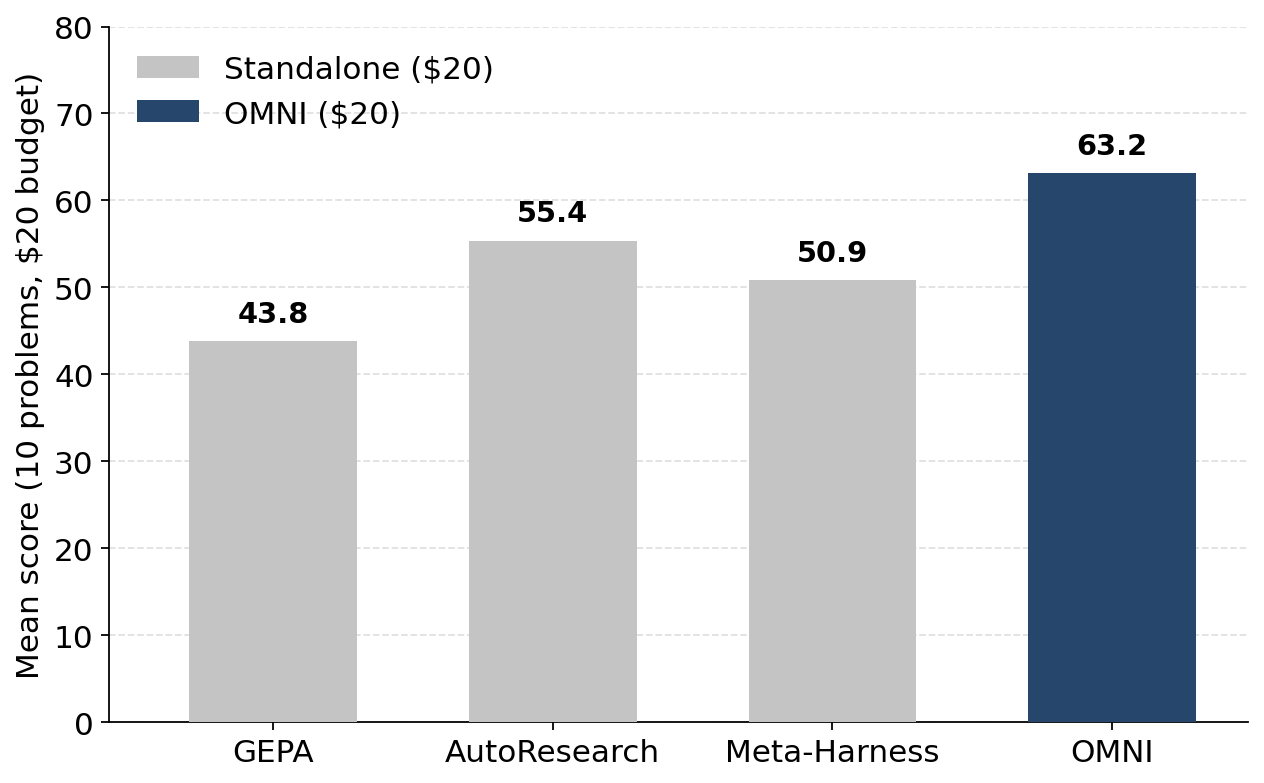
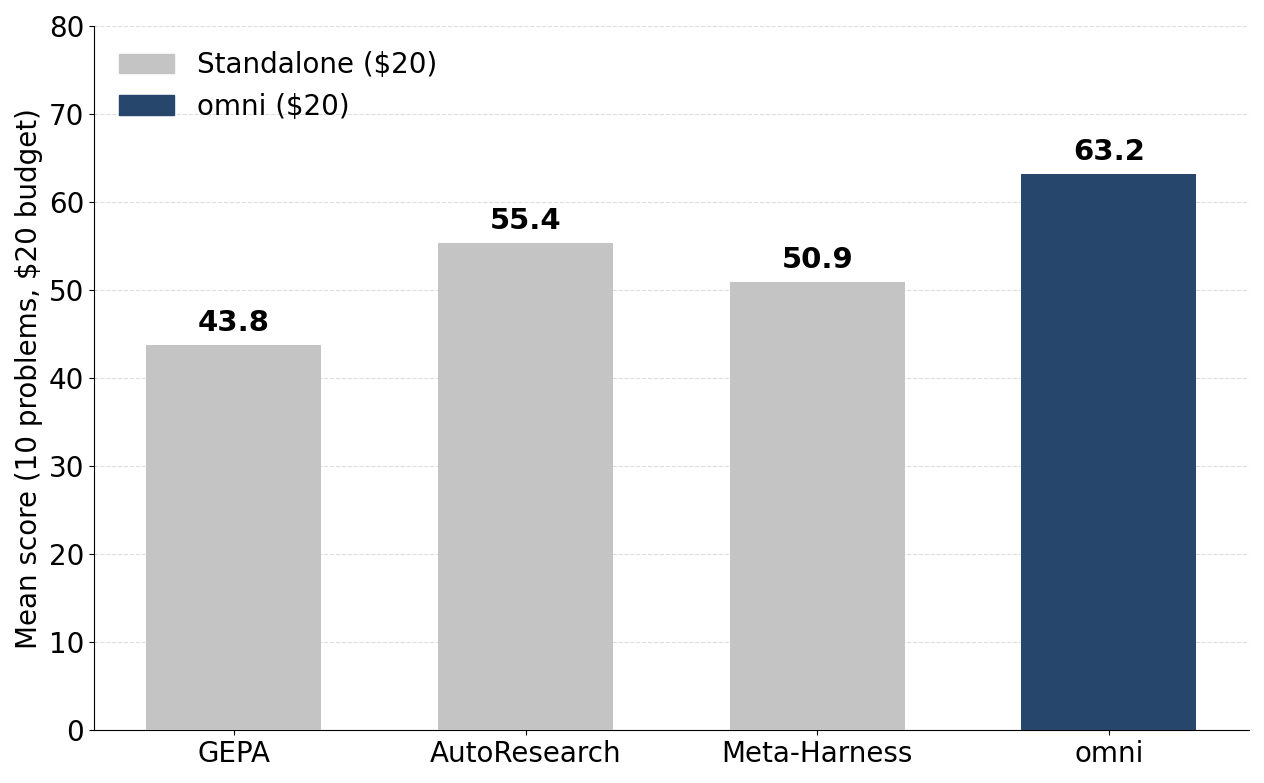
docs(blog): align omni post with current feat/optimize-anything-omni API
Terminology-only update; all results and figures unchanged:

- Task(initial_candidate=) -> Task(seed_candidate=), including the
  dataclasses.replace() reseed in the OMNI phase-2 example.
- optimize_anything(task, evaluate, config) -> optimize_anything_from_task
  in the Task-based examples; note the flat
  optimize_anything(seed_candidate, evaluator=..., ...) form in prose.
- Getting-started snippet uses the flat primary entry point.
- Correct the budget paragraph: plain composition helpers pre-partition
  the budget per stage; the *_with_server variants share one eval server
  and hard budget.

Changed region(s): [[0.0, 0.0613, 0.9873, 0.9808], [0.8331, 0.1533, 0.9256, 0.2146], [0.0309, 0.0, 0.0926, 0.0613]]

diff --git a/docs/scripts/blog_omni_figures.py b/docs/scripts/blog_omni_figures.py
@@ -1,0 +1,160 @@
+"""Regenerate the omni blog-post figures that carry the pipeline name.
+
+Produces (into the 2026-05-28-optimize-anything-omni post's images/ dir):
+
+- ``omni_bar.png`` — headline bar chart: standalone engines vs the composed
+  omni pipeline on Frontier-CS.
+- ``omni_design.png`` — the two-phase pipeline diagram (also the post's
+  social-preview image).
+
+The other two figures in the post (``optimizer_variance.png``,
+``unstuck_frontier_cs.png``) carry no pipeline-name text and are untouched.
+
+Usage:
+    uv run --with matplotlib python docs/scripts/blog_omni_figures.py
+"""
+
+from pathlib import Path
+
+import matplotlib.pyplot as plt
+from matplotlib.patches import FancyArrowPatch, FancyBboxPatch, Patch
+
+IMAGES = (
+    Path(__file__).resolve().parents[1]
+    / "docs"
+    / "blog"
+    / "posts"
+    / "2026-05-28-optimize-anything-omni"
+    / "images"
+)
+
+PIPELINE = "omni"
+
+NAVY_BAR = "#26466b"
+GRAY_BAR = "#c4c4c4"
+NAVY_LINE = "#152d70"
+GOLD = "#b87d2a"
+FILL_LIGHT = "#f8faff"
+FILL_DARK = "#eaf1fe"
+
+
+def make_bar() -> None:
+    """Headline bar: GEPA / AutoResearch / Meta-Harness standalone vs omni."""
+    labels = ["GEPA", "AutoResearch", "Meta-Harness", PIPELINE]
+    scores = [43.8, 55.4, 50.9, 63.2]
+    colors = [GRAY_BAR, GRAY_BAR, GRAY_BAR, NAVY_BAR]
+
+    fig, ax = plt.subplots(figsize=(12.64, 7.83), dpi=100)
+    bars = ax.bar(labels, scores, width=0.6, color=colors, zorder=3)
+
+    for bar, score in zip(bars, scores, strict=True):
+        ax.annotate(
+            f"{score}",
+            (bar.get_x() + bar.get_width() / 2, score),
+            xytext=(0, 10),
+            textcoords="offset points",
+            ha="center",
+            fontsize=21,
+            fontweight="bold",
+        )
+
+    ax.set_ylabel("Mean score (10 problems, $20 budget)", fontsize=20)
+    ax.set_ylim(0, 80)
+    ax.set_yticks(range(0, 81, 10))
+    ax.tick_params(axis="both", labelsize=20)
+    ax.grid(axis="y", linestyle="--", color="#dddddd", zorder=0)
+    ax.spines[["top", "right"]].set_visible(False)
+
+    ax.legend(
+        handles=[
+            Patch(color=GRAY_BAR, label="Standalone ($20)"),
+            Patch(color=NAVY_BAR, label=f"{PIPELINE} ($20)"),
+        ],
+        loc="upper left",
+        fontsize=20,
+        frameon=False,
+    )
+
+    fig.tight_layout()
+    fig.savefig(IMAGES / "omni_bar.png")
+    plt.close(fig)
+
+
+def _box(ax, cx: float, cy: float, w: float, h: float, title: str, money: str, fill: str) -> None:
+    ax.add_patch(
+        FancyBboxPatch(
+            (cx - w / 2, cy - h / 2),
+            w,
+            h,
+            boxstyle="round,pad=0,rounding_size=24",
+            facecolor=fill,
+            edgecolor=NAVY_LINE,
+            linewidth=4.2,
+            zorder=3,
+        )
+    )
+    if money:
+        # y-axis is inverted (y down): smaller y = visually higher.
+        ax.text(
+            cx, cy - 36, title, ha="center", va="center", fontsize=30, fontweight="bold", color="#111111", zorder=4
+        )
+        ax.text(cx, cy + 34, money, ha="center", va="center", fontsize=26, fontweight="bold", color=GOLD, zorder=4)
+    else:
+        ax.text(cx, cy, title, ha="center", va="center", fontsize=30, fontweight="bold", color="#111111", zorder=4)
+
+
+def _arrow(ax, start: tuple[float, float], end: tuple[float, float], rad: float) -> None:
+    ax.add_patch(
+        FancyArrowPatch(
+            start,
+            end,
+            connectionstyle=f"arc3,rad={rad}",
+            arrowstyle="-|>",
+            mutation_scale=100,
+            linewidth=5.5,
+            color=NAVY_LINE,
+            zorder=2,
+            shrinkA=0,
+            shrinkB=4,
+        )
+    )
+
+
+def make_design() -> None:
+    """Two-phase pipeline diagram: parallel explore -> pick best -> fresh continuation."""
+    fig, ax = plt.subplots(figsize=(31.56, 9.32), dpi=100)
+    ax.set_xlim(0, 3156)
+    ax.set_ylim(932, 0)  # y down, matching image coordinates
+    ax.axis("off")
+
+    rows = [133, 461, 792]
+    engines = ["GEPA", "AutoResearch", "Meta-Harness"]
+
+    # Phase 1: engines in parallel.
+    for y, engine in zip(rows, engines, strict=True):
+        _box(ax, 292, y, 490, 158, engine, "$5", FILL_LIGHT)
+
+    # Pick best.
+    _box(ax, 1205, rows[1], 450, 182, "Pick Best", "", FILL_LIGHT)
+
+    # Phase 2: fresh continuation engines and the named variants.
+    for y, engine in zip(rows, engines, strict=True):
+        _box(ax, 1983, y, 490, 158, f"Fresh {engine}", "$5", FILL_LIGHT)
+        _box(ax, 2830, y, 580, 158, f"{PIPELINE}-{engine}", "$20", FILL_DARK)
+
+    # Converging arrows into Pick Best (heads fanned slightly so all three
+    # stay visible), diverging out to the fresh engines.
+    for y, rad, fan in zip(rows, (0.16, 0.0, -0.16), (-36, 0, 36), strict=True):
+        _arrow(ax, (537, y), (978, rows[1] + fan), rad)
+        _arrow(ax, (1432, rows[1]), (1736, y), -rad)
+        _arrow(ax, (2228, y), (2538, y), 0.0)
+
+    fig.subplots_adjust(left=0, right=1, top=1, bottom=0)
+    fig.savefig(IMAGES / "omni_design.png")
+    plt.close(fig)
+
+
+if __name__ == "__main__":
+    make_bar()
+    make_design()
+    print(f"wrote omni_bar.png and omni_design.png to {IMAGES}")

diff --git a/docs/docs/blog/posts/2026-05-28-optimize-anything-omni/index.md b/docs/docs/blog/posts/2026-05-28-optimize-anything-omni/index.md
@@ -6,7 +6,7 @@ authors:
 slug: optimize-anything-omni
 readtime: 10
 title: "optimize_anything Goes Omni: Pluggable Engines and Composable Optimizer Pipelines"
-description: "optimize_anything now dispatches a single optimization call to any engine — GEPA, an autonomous coding agent, or an agent-based optimizer — and lets you compose them into multi-stage pipelines. On Frontier-CS, the composed OMNI pipeline beats every standalone optimizer under a matched budget."
+description: "optimize_anything now dispatches a single optimization call to any engine — GEPA, an autonomous coding agent, or an agent-based optimizer — and lets you compose them into multi-stage pipelines. On Frontier-CS, the composed omni pipeline beats every standalone optimizer under a matched budget."
 social_image: blog/2026-05-28-optimize-anything-omni/images/omni_design.png
 citation_authors:
   - "Donghyun Lee"
@@ -30,11 +30,11 @@ citation_keywords: "text optimization, LLM-driven optimization, prompt optimizat
 # <span class="gradient-code">optimize_anything</span> Goes Omni: Pluggable Engines and Composable Optimizer Pipelines
 
 !!! tip ""
-    **TL;DR.** `optimize_anything` is now **engine-pluggable** and **pipeline-composable**: one argument (`engine=`) dispatches the same optimization call to GEPA, an autonomous coding agent (e.g., [AutoResearch](https://github.com/karpathy/autoresearch)), or an agent-based optimizer (e.g., [Meta-Harness](https://arxiv.org/abs/[phone redacted])), and the engines compose into multi-stage pipelines. Using **[Terrarium](https://github.com/gepa-ai/terrarium)**, our new evaluation framework that pins every optimizer to the same task, budget, and evaluation server, we find that **no single optimizer dominates** on [Frontier-CS](https://arxiv.org/abs/[phone redacted]) — but the composed **`OMNI`** pipeline beats every standalone optimizer under a matched \$20 budget.
+    **TL;DR.** `optimize_anything` is now **engine-pluggable** and **pipeline-composable**: one argument (`engine=`) dispatches the same optimization call to GEPA, an autonomous coding agent (e.g., [AutoResearch](https://github.com/karpathy/autoresearch)), or an agent-based optimizer (e.g., [Meta-Harness](https://arxiv.org/abs/[phone redacted])), and the engines compose into multi-stage pipelines. Using **[Terrarium](https://github.com/gepa-ai/terrarium)**, our new evaluation framework that pins every optimizer to the same task, budget, and evaluation server, we find that **no single optimizer dominates** on [Frontier-CS](https://arxiv.org/abs/[phone redacted]) — but the composed **`omni`** pipeline beats every standalone optimizer under a matched \$20 budget.
 
 <figure markdown="span">
-  ![Bar chart, mean score on Frontier-CS (10 problems, \$20 budget each): GEPA 43.8, AutoResearch 55.4, Meta-Harness 50.9 (gray), and OMNI 63.2 (dark blue). The OMNI bar tops every standalone optimizer.](images/omni_bar.png){ style="width: 70%;" }
-  <figcaption>On Frontier-CS (10 problems, matched $20 budget, Claude Sonnet 4.6), the composed <span class="gradient-code">OMNI</span> pipeline (63.2) beats every standalone optimizer — GEPA (43.8), AutoResearch (55.4), and Meta-Harness (50.9).</figcaption>
+  ![Bar chart, mean score on Frontier-CS (10 problems, \$20 budget each): GEPA 43.8, AutoResearch 55.4, Meta-Harness 50.9 (gray), and omni 63.2 (dark blue). The omni bar tops every standalone optimizer.](images/omni_bar.png){ style="width: 70%;" }
+  <figcaption>On Frontier-CS (10 problems, matched $20 budget, Claude Sonnet 4.6), the composed <span class="gradient-code">omni</span> pipeline (63.2) beats every standalone optimizer — GEPA (43.8), AutoResearch (55.4), and Meta-Harness (50.9).</figcaption>
 </figure>
 
 When we [introduced `optimize_anything`](https://gepa-ai.github.io/gepa/blog/introducing-optimize-anything/), the premise was simple: if your artifact is describable as text and its quality can be measured, you can optimize it. You write down the artifact and a function that scores it, and GEPA's reflective-mutation loop does the rest.
@@ -111,13 +111,13 @@ It usually can.
 
 The plateau one optimizer reaches is rarely the best the budget can buy: a *different* optimizer, seeded from the stuck candidate, usually keeps making progress. Which one helps varies, too — on P0, AutoResearch breaks through while Meta-Harness stays put. Both findings point the same way: rather than bet the whole budget on one optimizer, **explore with several and continue from the best**.
 
-## OMNI: composing optimizers into a pipeline
+## omni: composing optimizers into a pipeline
 
-These observations point to a design rather than a single winner. **`OMNI`** is a pipeline that puts both findings to work under one budget:
+These observations point to a design rather than a single winner. **`omni`** is a pipeline that puts both findings to work under one budget:
 
 <figure markdown="span">
-  ![OMNI pipeline diagram. Phase 1 (left): GEPA, AutoResearch, and Meta-Harness each run in parallel on a small slice of the budget (each labeled \$5). Their outputs flow into a "Pick Best" node. Phase 2 (right): the best candidate seeds a fresh instance of one optimizer (Fresh GEPA / Fresh AutoResearch / Fresh Meta-Harness, each \$5) that continues the search, producing the named variant OMNI-GEPA / OMNI-AutoResearch / OMNI-Meta-Harness, each capped at \$20 total.](images/omni_design.png){ style="width: 100%;" }
-  <figcaption><span class="gradient-code">OMNI</span> as an optimizer pipeline. <strong>Phase 1:</strong> run every engine in parallel on a small slice of the budget and pick the single best candidate (exploiting that no optimizer dominates, and that early progress is fast). <strong>Phase 2:</strong> hand that candidate to a <em>fresh</em> optimizer for the rest of the budget (exploiting that a fresh optimizer breaks plateaus). The continuation engine names the variant — <span class="gradient-code">OMNI</span>-GEPA, <span class="gradient-code">OMNI</span>-AutoResearch, or <span class="gradient-code">OMNI</span>-Meta-Harness — each capped at $20 total.</figcaption>
+  ![omni pipeline diagram. Phase 1 (left): GEPA, AutoResearch, and Meta-Harness each run in parallel on a small slice of the budget (each labeled \$5). Their outputs flow into a "Pick Best" node. Phase 2 (right): the best candidate seeds a fresh instance of one optimizer (Fresh GEPA / Fresh AutoResearch / Fresh Meta-Harness, each \$5) that continues the search, producing the named variant omni-GEPA / omni-AutoResearch / omni-Meta-Harness, each capped at \$20 total.](images/omni_design.png){ style="width: 100%;" }
+  <figcaption><span class="gradient-code">omni</span> as an optimizer pipeline. <strong>Phase 1:</strong> run every engine in parallel on a small slice of the budget and pick the single best candidate (exploiting that no optimizer dominates, and that early progress is fast). <strong>Phase 2:</strong> hand that candidate to a <em>fresh</em> optimizer for the rest of the budget (exploiting that a fresh optimizer breaks plateaus). The continuation engine names the variant — <span class="gradient-code">omni</span>-GEPA, <span class="gradient-code">omni</span>-AutoResearch, or <span class="gradient-code">omni</span>-Meta-Harness — each capped at $20 total.</figcaption>
 </figure>
 
 Phase 1 starts the slow part of the search from a better candidate than any single optimizer reaches alone; phase 2 hands that candidate to a fresh optimizer to push past the plateau. In the new API this is a short composition over the same engines: `optimize_best_of` runs several engines in parallel and keeps the highest-scoring candidate, then a fresh optimizer continues from it:
@@ -133,7 +133,7 @@ explore = optimize_best_of(seed, **task, configs=[
 ])
 
 # Phase 2 — continue: seed a fresh optimizer from the winner and spend the rest of the budget.
-#   The continuation engine names the variant — this is OMNI-GEPA.
+#   The continuation engine names the variant — this is omni-GEPA.
 omni = optimize_anything(
     explore.best_candidate,
     **task,
@@ -143,7 +143,7 @@ omni = optimize_anything(
 print(omni.best_score, omni.best_candidate)
 ```
 
-`OMNI` is just one point in the design space the new API opens up. The same primitives compose other strategies:
+`omni` is just one point in the design space the new API opens up. The same primitives compose other strategies:
 
 - **`optimize_sequential`** — chain engines; each one's best seeds the next (monotonic, so a regressing stage can't poison a later one).
 - **`optimize_parallel`** / **`optimize_best_of`** — run engines concurrently; take all results, or just the highest-scoring.
@@ -152,17 +152,17 @@ print(omni.best_score, omni.best_candidate)
 
 A composition spends the same total as a single run — the budget is pre-partitioned across stages (the \$5 slices above), not multiplied. And each helper has a `*_with_server` variant (e.g. `optimize_best_of_with_server`) that runs every stage against one caller-owned eval server, enforcing a single hard budget across the whole pipeline.
 
-## Results: OMNI beats every standalone optimizer on Frontier-CS
+## Results: omni beats every standalone optimizer on Frontier-CS
 
-We compared each engine run standalone against the corresponding `OMNI` pipeline on Frontier-CS, under a matched **\$20** budget. The figure at the top of the post shows the result: `OMNI` (63.2) tops every standalone optimizer, and every continuation variant beats its standalone counterpart:
+We compared each engine run standalone against the corresponding `omni` pipeline on Frontier-CS, under a matched **\$20** budget. The figure at the top of the post shows the result: `omni` (63.2) tops every standalone optimizer, and every continuation variant beats its standalone counterpart:
 
-| Optimizer | Standalone | `OMNI` | Improvement |
+| Optimizer | Standalone | `omni` | Improvement |
 | --- | --- | --- | --- |
 | GEPA | 43.8 | **61.8** | +18.0 (**+41%**) |
 | AutoResearch | 55.4 | **63.2** | +7.8 (+14%) |
 | Meta-Harness | 50.9 | **59.3** | +8.4 (+16%) |
 
-The largest gain goes to GEPA: `OMNI`-GEPA (61.8) more than closes its standalone gap behind the agent-based baselines, and overtakes even the strongest *standalone* optimizer (AutoResearch, 55.4). And every `OMNI` variant beats every standalone optimizer — the weakest `OMNI` pipeline (59.3) still tops the best single optimizer (55.4). The reliable win comes from composition, not from picking the right optimizer.
+The largest gain goes to GEPA: `omni`-GEPA (61.8) more than closes its standalone gap behind the agent-based baselines, and overtakes even the strongest *standalone* optimizer (AutoResearch, 55.4). And every `omni` variant beats every standalone optimizer — the weakest `omni` pipeline (59.3) still tops the best single optimizer (55.4). The reliable win comes from composition, not from picking the right optimizer.
 
 ## Getting started
 